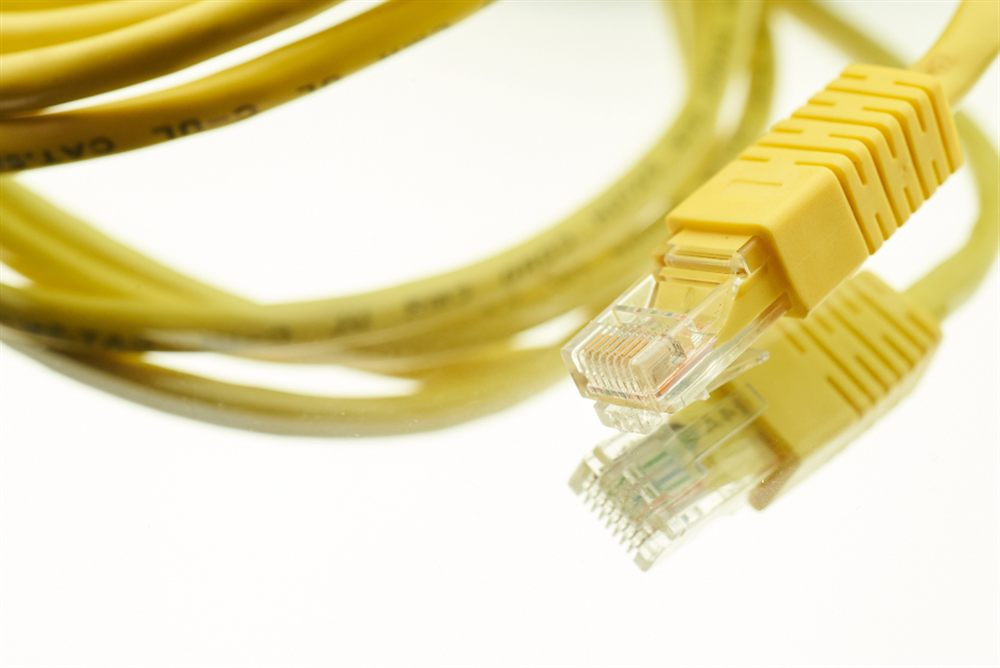
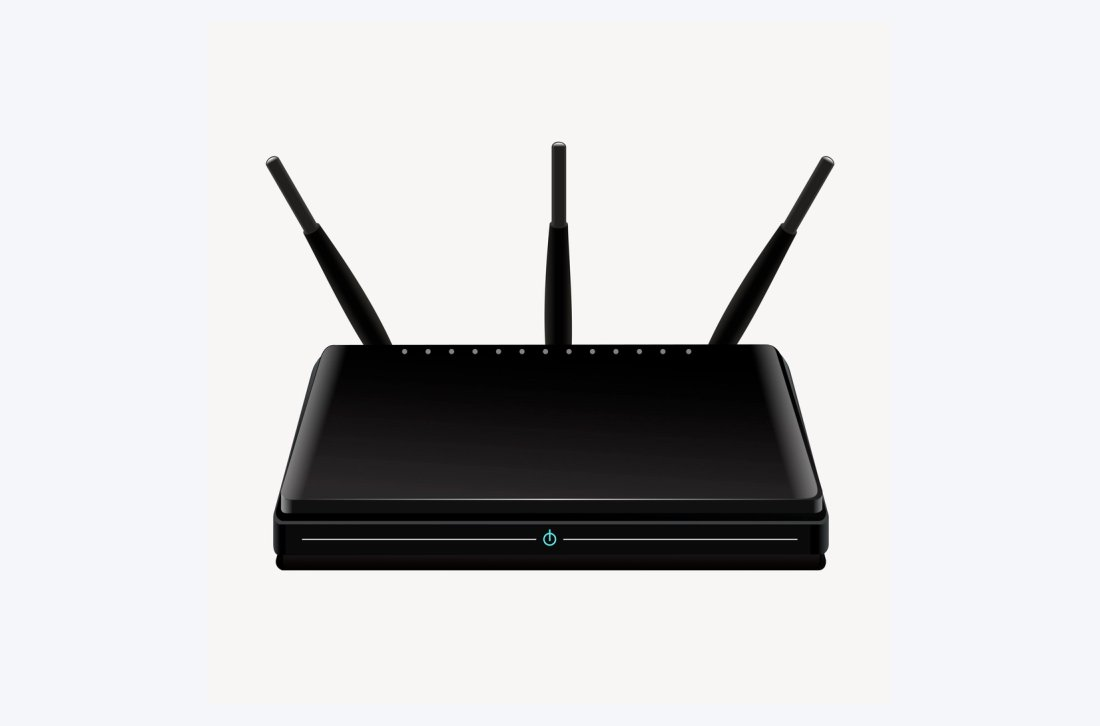
pending website pages done

diff --git a/sakshi-infonet/public/css/style.css b/sakshi-infonet/public/css/style.css
@@ -346,27 +346,39 @@ ul { list-style: none; }
     max-width: 620px;
     height: auto;
 }
-.hero-photo {
+/* Hero services collage */
+.hero-grid {
+    display: grid;
+    grid-template-columns: 1fr 1fr;
+    gap: 16px;
     width: 100%;
-    max-width: 560px;
-    aspect-ratio: 4 / 3;
-    border-radius: 20px;
+    max-width: 540px;
+}
+.hero-tile {
+    position: relative;
+    display: block;
+    border-radius: 18px;
     overflow: hidden;
+    aspect-ratio: 5 / 4;
     box-shadow: var(--shadow-lg);
     border: 1px solid rgba(255,255,255,0.12);
+    transition: transform .3s var(--ease), box-shadow .3s var(--ease);
+    background: #0e1c40;
 }
-.hero-photo img { width: 100%; height: 100%; object-fit: cover; display: block; }
-.hero-photo-badge {
-    position: absolute; left: 0; bottom: 24px;
-    display: flex; align-items: center; gap: 11px;
-    background: #fff; border-radius: 14px; padding: 12px 16px;
-    box-shadow: var(--shadow-md);
+.hero-tile:hover { transform: translateY(-5px); }
+.hero-tile img { width: 100%; height: 100%; object-fit: cover; display: block; transition: transform .5s var(--ease); }
+.hero-tile:hover img { transform: scale(1.07); }
+.hero-tile-label {
+    position: absolute; left: 0; right: 0; bottom: 0;
+    padding: 26px 14px 13px;
+    display: flex; align-items: center; gap: 9px;
+    color: #fff; font-weight: 700; font-size: 14px; letter-spacing: -0.01em;
+    background: linear-gradient(transparent, rgba(8,15,34,0.9));
 }
-.hero-photo-badge .hpb-ic { width: 38px; height: 38px; border-radius: 10px; background: var(--bg-navy-soft); color: var(--red); display: flex; align-items: center; justify-content: center; flex-shrink: 0; }
-.hero-photo-badge .hpb-ic svg { width: 20px; height: 20px; }
-.hero-photo-badge strong { display: block; color: var(--navy); font-size: 14px; font-weight: 700; line-height: 1.2; }
-.hero-photo-badge small { color: var(--muted); font-size: 12px; }
-@media (max-width: 992px) { .hero-photo-badge { left: 12px; } }
+.hero-tile-ic { width: 24px; height: 24px; flex-shrink: 0; display: flex; align-items: center; justify-content: center; color: #fff; }
+.hero-tile-ic svg { width: 20px; height: 20px; }
+@media (max-width: 992px) { .hero-grid { max-width: 460px; margin: 0 auto; } }
+@media (max-width: 480px) { .hero-tile-label { font-size: 12.5px; padding: 22px 10px 11px; } }
 
 /* About split illustration */
 .split-illus {

diff --git a/sakshi-infonet/resources/views/pages/home.blade.php b/sakshi-infonet/resources/views/pages/home.blade.php
@@ -28,12 +28,16 @@
         </div>
 
         <div class="hero-visual reveal">
-            <div class="hero-photo">
-                <img src="{{ asset('images/hero.jpg') }}?v=1" alt="CCTV security camera installation by Sakshi Infonet in Faridabad, Delhi NCR">
-            </div>
-            <div class="hero-photo-badge">
-                <span class="hpb-ic"><svg viewBox="0 0 24 24" fill="currentColor"><path d="M12 1L3 5v6c0 5.55 3.84 10.74 9 12 5.16-1.26 9-6.45 9-12V5l-9-4zm-1 15l-4-4 1.41-1.41L11 13.17l5.59-5.59L18 9l-7 7z"/></svg></span>
-                <span><strong>Installed &amp; Serviced</strong><small>by our own local team</small></span>
+            <div class="hero-grid">
+                @foreach (config('site.services') as $s)
+                    <a href="{{ route('service.show', $s['slug']) }}" class="hero-tile">
+                        <img src="{{ asset('images/services/'.$s['slug'].'.jpg') }}?v=5" alt="{{ $s['title'] }} in Faridabad, Delhi NCR by Sakshi Infonet">
+                        <span class="hero-tile-label">
+                            <span class="hero-tile-ic">@include('partials.icon', ['name' => $s['icon']])</span>
+                            {{ $s['title'] }}
+                        </span>
+                    </a>
+                @endforeach
             </div>
         </div>
     </div>

diff --git a/sakshi-infonet/resources/views/layouts/app.blade.php b/sakshi-infonet/resources/views/layouts/app.blade.php
@@ -52,7 +52,7 @@
     <link rel="preconnect" href="https://fonts.gstatic.com" crossorigin>
     <link href="https://fonts.googleapis.com/css2?family=Inter:wght@400;500;600;700&family=Poppins:wght@500;600;700;800&display=swap" rel="stylesheet">
 
-    <link rel="stylesheet" href="{{ asset('css/style.css') }}?v=2.4">
+    <link rel="stylesheet" href="{{ asset('css/style.css') }}?v=2.5">
 
     {{-- Structured Data: LocalBusiness --}}
     <script type="application/ld+json">

diff --git a/sakshi-infonet/resources/views/partials/service-image.blade.php b/sakshi-infonet/resources/views/partials/service-image.blade.php
@@ -19,7 +19,7 @@
 @endphp
 <div class="svc-image {{ $imgClass }}">
     @if ($found)
-        <img src="{{ asset($found) }}?v=3" alt="{{ $service['title'] }} services in Faridabad, Delhi NCR - Sakshi Infonet" loading="lazy">
+        <img src="{{ asset($found) }}?v=5" alt="{{ $service['title'] }} services in Faridabad, Delhi NCR - Sakshi Infonet" loading="lazy">
     @else
         <div class="svc-image-fallback">
             <span class="svc-fallback-icon">@include('partials.icon', ['name' => $service['icon']])</span>